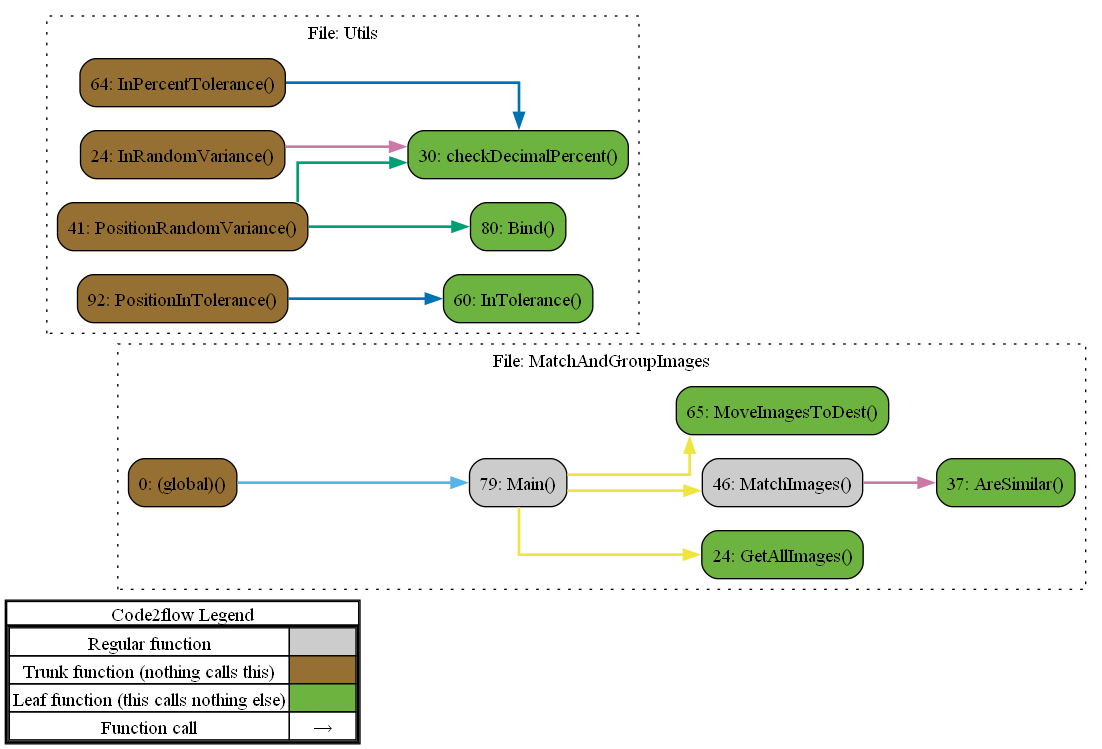
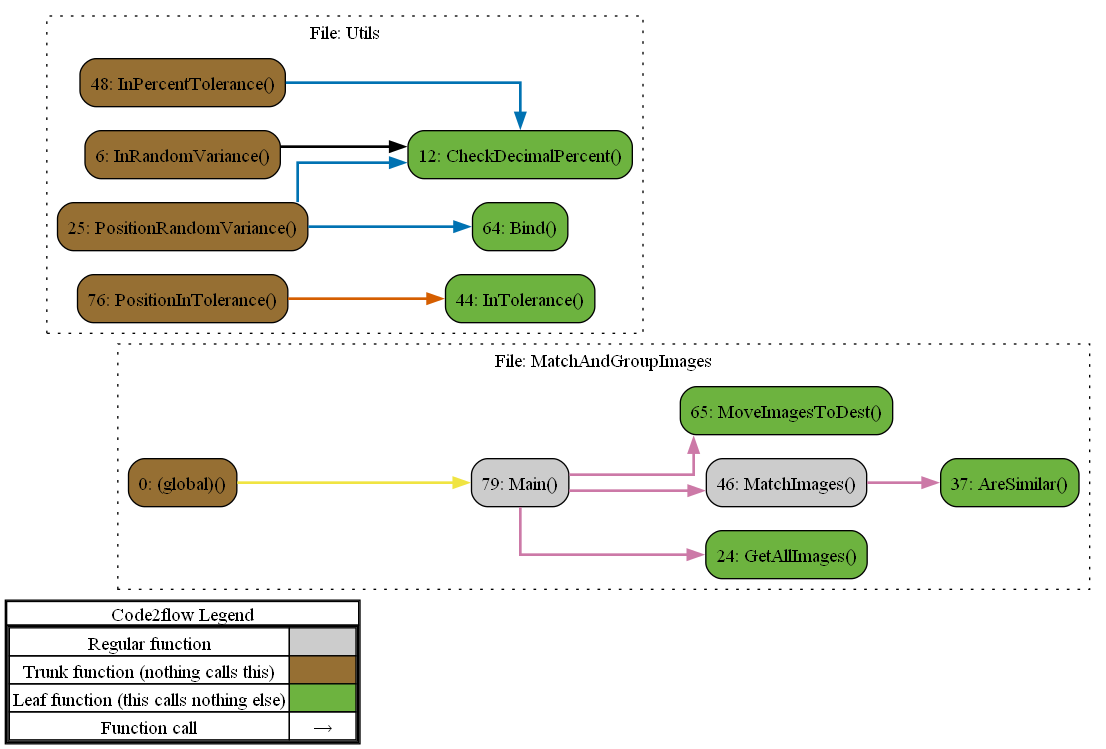
Unlockable Locker Rooms and

diff --git a/Definitions/LockerRooms.py b/Definitions/LockerRooms.py
@@ -1,35 +1,69 @@
 """Definitions for LockerRooms"""
-from Definitions import DefinedLocations, ColorTools, AssetLibrary
+from dataclasses import dataclass
 
-LockerRooms = {
-    AssetLibrary.ImageTypes.CoffeeLogo: DefinedLocations.LocationDefs.YellowLockerRoom,
-    AssetLibrary.ImageTypes.CowboyLogo: DefinedLocations.LocationDefs.BlueLockerRoom,
-    AssetLibrary.ImageTypes.LuauLogo: DefinedLocations.LocationDefs.PinkLockerRoom,
-    AssetLibrary.ImageTypes.SuitLogo: DefinedLocations.LocationDefs.GreyLockerRoom,
-    AssetLibrary.ImageTypes.SafariLogo: DefinedLocations.LocationDefs.GreenLockerRoom,
-}
+from Definitions import AssetLibrary, ColorTools, DefinedLocations
 
 
-LockerRoomPaths = {
-    AssetLibrary.ImageTypes.CoffeeLogo: AssetLibrary.ImagePaths.CoffeePath,
-    AssetLibrary.ImageTypes.CowboyLogo: AssetLibrary.ImagePaths.CowboyPath,
-    AssetLibrary.ImageTypes.LuauLogo: AssetLibrary.ImagePaths.LuauPath,
-    AssetLibrary.ImageTypes.SuitLogo: AssetLibrary.ImagePaths.SuitPath,
-    AssetLibrary.ImageTypes.SafariLogo: AssetLibrary.ImagePaths.SafariPath,
-}
+@dataclass
+class LockerRoom:
+    Name: str
+    Logo: AssetLibrary.ImageTypes
+    Location: tuple
+    WorkerOutfits: list
+    CustomerOutfits: list
+    Color: ColorTools.Color
+    Unlocked: bool = False
 
-LockerRoomColors = {
-    DefinedLocations.LocationDefs.YellowLockerRoom: ColorTools.Yellow,
-    DefinedLocations.LocationDefs.BlueLockerRoom: ColorTools.Blue,
-    DefinedLocations.LocationDefs.GreenLockerRoom: ColorTools.Green,
-    DefinedLocations.LocationDefs.PinkLockerRoom: ColorTools.Pink,
-    DefinedLocations.LocationDefs.GreyLockerRoom: ColorTools.Grey,
-}
+    @property
+    def WorkerImageTypes(self) -> AssetLibrary.ImageTypes:
+        return [AssetLibrary.PathToTypeDict[x] for x in self.WorkerOutfits]
 
-LockerRoomOutfits = {
-    DefinedLocations.LocationDefs.YellowLockerRoom: AssetLibrary.ImagePath.WorkerCoffeePath,
-    DefinedLocations.LocationDefs.BlueLockerRoom: AssetLibrary.ImagePath.WorkerCowboyPath,
-    DefinedLocations.LocationDefs.GreenLockerRoom: AssetLibrary.ImagePath.WorkerSafariPath,
-    DefinedLocations.LocationDefs.PinkLockerRoom: AssetLibrary.ImagePath.WorkerLuauPath,
-    DefinedLocations.LocationDefs.GreyLockerRoom: AssetLibrary.ImagePath.WorkerSuitPath,
-}
+    @property
+    def Path(self) -> AssetLibrary.ImagePaths:
+        return AssetLibrary.LockerRoomPaths[self.Logo]
+
+
+LockerRooms = [
+    LockerRoom(
+        Name="Formal Dining",
+        Logo=AssetLibrary.ImageTypes.SuitLogo,
+        Location=DefinedLocations.LocationDefs.LockerRoom1,
+        WorkerOutfits=[AssetLibrary.ImagePaths.WorkerSuitPath],
+        CustomerOutfits=[],
+        Color=ColorTools.Blue,
+        Unlocked=True,
+    ),
+    LockerRoom(
+        Name="Coffee Shop",
+        Logo=AssetLibrary.ImageTypes.CoffeeLogo,
+        Location=DefinedLocations.LocationDefs.LockerRoom2,
+        WorkerOutfits=[AssetLibrary.ImagePaths.WorkerCoffeePath],
+        CustomerOutfits=[],
+        Color=ColorTools.Yellow,
+    ),
+    LockerRoom(
+        Name="Cowboy Saloon",
+        Logo=AssetLibrary.ImageTypes.CowboyLogo,
+        Location=DefinedLocations.LocationDefs.LockerRoom3,
+        WorkerOutfits=[AssetLibrary.ImagePaths.WorkerCowboyPath],
+        CustomerOutfits=[],
+        Color=ColorTools.Brown,
+        Unlocked=True,
+    ),
+    LockerRoom(
+        Name="Sundown Luau",
+        Logo=AssetLibrary.ImageTypes.LuauLogo,
+        Location=DefinedLocations.LocationDefs.LockerRoom4,
+        WorkerOutfits=[AssetLibrary.ImagePaths.WorkerLuauPath],
+        CustomerOutfits=[],
+        Color=ColorTools.Pink,
+    ),
+    LockerRoom(
+        Name="Safari Party",
+        Logo=AssetLibrary.ImageTypes.SafariLogo,
+        Location=DefinedLocations.LocationDefs.LockerRoom5,
+        WorkerOutfits=[AssetLibrary.ImagePaths.WorkerSafariPath],
+        CustomerOutfits=[],
+        Color=ColorTools.Green,
+    ),
+]

diff --git a/Generators/BackgroundPopulator.py b/Generators/BackgroundPopulator.py
@@ -1,6 +1,6 @@
 """Populate Background with ELements"""
 from Classes import Game, Sprite
-from Definitions import DefinedLocations, LockerRooms, AssetLibrary
+from Definitions import AssetLibrary, ColorTools, DefinedLocations, LockerRooms
 
 RowCoords = DefinedLocations.SeatingPlan().TableRows
 ColCoords = DefinedLocations.SeatingPlan().TableCols
@@ -26,26 +26,34 @@ def AddTables(activeGame=Game.MasterGame) -> None:
         activeGame.BackgroundSpriteGroup.add(table)
 
 
-def AddLogos(activeGame=Game.MasterGame) -> None:
-    for location, imagePath in LockerRooms.LockerRoomPaths.items():
-        logo = Sprite.BackgroundElementSprite(
-            position=LockerRooms.LockerRooms[location],
-            path=imagePath,
-            maxSize=100,
-            offset=(-50, -50),
-        )
-        activeGame.ForegroundSpriteGroup.add(logo)
-
-
 def AddLockerRooms(activeGame=Game.MasterGame) -> None:
-    for location, color in LockerRooms.LockerRoomColors.items():
-        rectObj = Sprite.RectangleObject(
-            position=location, color=color, size=[180, 150]
+    for lockerRoom in LockerRooms.LockerRooms:
+        if lockerRoom.Unlocked:
+            color = lockerRoom.Color
+            path = lockerRoom.Path
+            maxSize = 100
+            offset = (-50, -50)
+        else:
+            path = AssetLibrary.ImagePaths.LockedLockerRoomPath
+            color = ColorTools.Grey
+            maxSize = 180
+            offset = (-90, -50)
+
+        logo = Sprite.BackgroundElementSprite(
+            position=lockerRoom.Location,
+            path=path,
+            maxSize=maxSize,
+            offset=offset,
         )
+
+        rectObj = Sprite.RectangleObject(
+            position=lockerRoom.Location, color=color, size=[180, 150]
+        )
+
         activeGame.ForegroundSpriteGroup.add(rectObj)
+        activeGame.ForegroundSpriteGroup.add(logo)
 
 
 def SetupBackground(activeGame=Game.MasterGame) -> None:
     AddTables(activeGame=activeGame)
     AddLockerRooms(activeGame=activeGame)
-    AddLogos(activeGame=activeGame)

diff --git a/Definitions/AssetLibrary.py b/Definitions/AssetLibrary.py
@@ -1,7 +1,7 @@
 """Asset loading"""
+import sys
 from dataclasses import dataclass
 from enum import Enum
-import sys
 
 
 @dataclass
@@ -22,6 +22,7 @@ class ImagePaths:
     LuauPath = AssetFolder + r"\luau.png"
     SuitPath = AssetFolder + r"\suit.png"
     SafariPath = AssetFolder + r"\safari.png"
+    LockedLockerRoomPath = AssetFolder + r"\LockedLockerRoom.png"
 
 
 class ImageTypes(Enum):
@@ -39,9 +40,11 @@ class ImageTypes(Enum):
         LuauLogo,
         SuitLogo,
         SafariLogo,
-    ) = range(13)
+        LockedLockerRoomLogo,
+    ) = range(14)
 
 
+CustomerOutfits = [ImageTypes.Customer]
 WorkerOutfits = [
     ImageTypes.WorkerSuit,
     ImageTypes.WorkerCowboy,
@@ -49,19 +52,24 @@ WorkerOutfits = [
     ImageTypes.WorkerSafari,
     ImageTypes.WorkerCoffee,
 ]
-CustomerOutfits = [ImageTypes.Customer]
+
+LockerRoomPaths = {
+    ImageTypes.CoffeeLogo: ImagePaths.CoffeePath,
+    ImageTypes.CowboyLogo: ImagePaths.CowboyPath,
+    ImageTypes.LuauLogo: ImagePaths.LuauPath,
+    ImageTypes.SuitLogo: ImagePaths.SuitPath,
+    ImageTypes.SafariLogo: ImagePaths.SafariPath,
+}
+
 People = WorkerOutfits + CustomerOutfits
 
 ImagePath = ImagePaths()
-WorkerOutfitPaths = [
-    ImagePath.WorkerCoffeePath,
-    ImagePath.WorkerCowboyPath,
-    ImagePath.WorkerLuauPath,
-    ImagePath.WorkerSafariPath,
-    ImagePath.WorkerSuitPath,
-]
 
 PathToTypeDict = {
+    ImagePath.WorkerCoffeePath: ImageTypes.WorkerCoffee,
+    ImagePath.WorkerCowboyPath: ImageTypes.WorkerCowboy,
+    ImagePath.WorkerLuauPath: ImageTypes.WorkerLuau,
+    ImagePath.WorkerSafariPath: ImageTypes.WorkerSafari,
     ImagePath.WorkerSuitPath: ImageTypes.WorkerSuit,
     ImagePath.CustomerPath: ImageTypes.Customer,
     ImagePath.TablePath: ImageTypes.Table,
@@ -70,4 +78,5 @@ PathToTypeDict = {
     ImagePath.LuauPath: ImageTypes.LuauLogo,
     ImagePath.SuitPath: ImageTypes.SuitLogo,
     ImagePath.SafariPath: ImageTypes.SafariLogo,
+    ImagePath.LockedLockerRoomPath: ImageTypes.LockedLockerRoomLogo,
 }

diff --git a/Handlers/ClickHandler.py b/Handlers/ClickHandler.py
@@ -1,9 +1,11 @@
 """Handler for User Clicks"""
 from enum import Enum
-from Utilities import Utils
+
 from Classes import Game
-from Handlers import CustomerHandler as CH, WorkerHandler as WH
-from Definitions import CustomerDefs, LockerRooms, AssetLibrary
+from Definitions import AssetLibrary, CustomerDefs, LockerRooms
+from Handlers import CustomerHandler as CH
+from Handlers import WorkerHandler as WH
+from Utilities import Utils
 
 
 class ClickState(Enum):
@@ -18,9 +20,15 @@ GlobalTarget = None
 def MouseHandler(event) -> None:
     global GlobalClickState, GlobalTarget
     if GlobalClickState is ClickState.ClickedWorker:
-        for location in LockerRooms.LockerRooms.values():
-            if Utils.PositionInTolerance(pos1=event.pos, pos2=location, tolerance=75):
-                WH.GetChanged(ws=GlobalTarget, dest=location)
+        for lockerRoom in LockerRooms.LockerRooms:
+            if (
+                Utils.PositionInTolerance(
+                    pos1=event.pos, pos2=lockerRoom.Location, tolerance=75
+                )
+                and lockerRoom.Unlocked
+                and GlobalTarget.ImageType not in lockerRoom.WorkerImageTypes
+            ):
+                WH.GetChanged(ws=GlobalTarget, lockerRoom=lockerRoom)
         GlobalClickState = ClickState.Neutral
     elif GlobalClickState is ClickState.Neutral:
         for sprite in Game.MasterGame.CharSpriteGroup:

diff --git a/Handlers/WorkerHandler.py b/Handlers/WorkerHandler.py
@@ -1,6 +1,8 @@
 """Handler for Worker Tasks"""
+import random
+
 from Classes import Game
-from Definitions import DefinedPaths as DL, LockerRooms
+from Definitions import DefinedPaths as DL
 
 
 def ServeCustomer() -> None:
@@ -14,11 +16,11 @@ def FinishCustomer(ws, j) -> None:
     Game.MasterGame.UserInventory.GetPaid(amount=j.Price)
 
 
-def GetChanged(ws, dest) -> None:
+def GetChanged(ws, lockerRoom) -> None:
     ws.MvmHandler.StartNewListedMotion(
-        DL.DefinedPaths.KitchenToLockerRoom(sprite=ws, dest=dest)
+        DL.DefinedPaths.KitchenToLockerRoom(sprite=ws, dest=lockerRoom.Location)
     )
-    newOutfit = LockerRooms.LockerRoomOutfits[dest]
+    newOutfit = random.choice(lockerRoom.WorkerOutfits)
     ws.MvmHandler.OnComplete = lambda: (
         ws.ChangeOutfit(newOutfit),
         ws.CreatePersonTimerBar(

diff --git a/Classes/Sprite.py b/Classes/Sprite.py
@@ -1,9 +1,10 @@
 """Class for visibile sprites"""
 import pygame
-from Classes import GameObject, Game, TimerBar
-from Utilities import Utils as utils
-from Definitions import ColorTools, AssetLibrary
+
+from Classes import Game, GameObject, TimerBar
+from Definitions import AssetLibrary, ColorTools
 from Handlers import MovementHandler
+from Utilities import Utils as utils
 
 
 class CharImageSprite(GameObject.GameObject):
@@ -55,6 +56,7 @@ class CharImageSprite(GameObject.GameObject):
         newImage = pygame.transform.scale(newImage, dim)
         newImageRect = self.rect
         self.image = newImage
+        self.ImageType = AssetLibrary.PathToTypeDict[newOutfitPath]
 
     def UpdateSprite(self) -> None:
         if self.PersonalTimer is not None:

diff --git a/Definitions/DefinedLocations.py b/Definitions/DefinedLocations.py
@@ -3,23 +3,23 @@
 
 class DefinedLocations:
     @property
-    def YellowLockerRoom(self) -> tuple:
+    def LockerRoom1(self) -> tuple:
         return (350, 65)
 
     @property
-    def GreenLockerRoom(self) -> tuple:
+    def LockerRoom2(self) -> tuple:
         return (530, 65)
 
     @property
-    def BlueLockerRoom(self) -> tuple:
+    def LockerRoom3(self) -> tuple:
         return (710, 65)
 
     @property
-    def PinkLockerRoom(self) -> tuple:
+    def LockerRoom4(self) -> tuple:
         return (890, 65)
 
     @property
-    def GreyLockerRoom(self) -> tuple:
+    def LockerRoom5(self) -> tuple:
         return (1070, 65)
 
     @property

diff --git a/Definitions/ColorTools.py b/Definitions/ColorTools.py
@@ -1,7 +1,9 @@
 """Class for Altering Colors"""
-from dataclasses import dataclass
 import colorsys
+from dataclasses import dataclass
+
 import numpy as np
+
 from Utilities import Utils
 
 
@@ -44,10 +46,11 @@ class Color:
 
 
 White = Color(h=0, s=0, v=255)
-Blue = Color(h=128, s=200, v=128)
+Blue = Color(h=150, s=200, v=128)
 Green = Color(h=70, s=200, v=128)
 LimeGreen = Color(h=70, s=200, v=255)
 Red = Color(h=0, s=200, v=255)
 Grey = Color(h=0, s=0, v=200)
 Pink = Color(h=220, s=200, v=128)
 Yellow = Color(h=25, s=200, v=180)
+Brown = Color(h=29, s=230, v=100)

diff --git a/Utilities/Utils.py b/Utilities/Utils.py
@@ -3,7 +3,7 @@ import math
 import random
 
 
-def InRandomVarianpypyce(num, percentVariance) -> float:
+def InRandomVariance(num, percentVariance) -> float:
     percentVariance = CheckDecimalPercent(percentVariance)
     varyAmount = random.randint(a=-100, b=100) * percentVariance * 0.01 * num
     return num + varyAmount

diff --git a/Classes/Inventory.py b/Classes/Inventory.py
@@ -1,5 +1,6 @@
 """Inventory Object"""
 from dataclasses import dataclass
+
 from Definitions import Prices
 
 

diff --git a/Main.py b/Main.py
@@ -1,4 +1,4 @@
-"""Main Body of Test"""
+"""Main Body of Game"""
 
 import os
 

diff --git a/README.md b/README.md
@@ -16,7 +16,7 @@ Work on a fun little restaurant sim.
 
 What if a bunch of restaurants couldn't afford individual working spaces so decided to work together in 1 building. The only issue is that the health inspector wouldn't tolerate that under city guidelines, so staff have to constantly change outfits to pretend they only work for 1 business.
 
-## [To Do List](TODO.md)
+## [To Do List](Docs/TODO.md)
 
 ## Folder Descriptions
 
